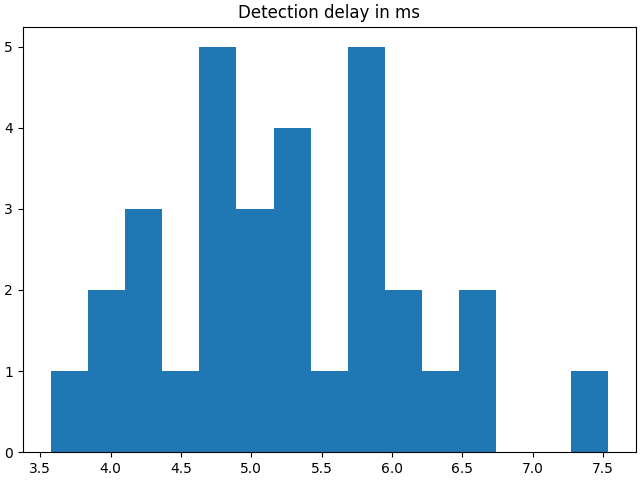
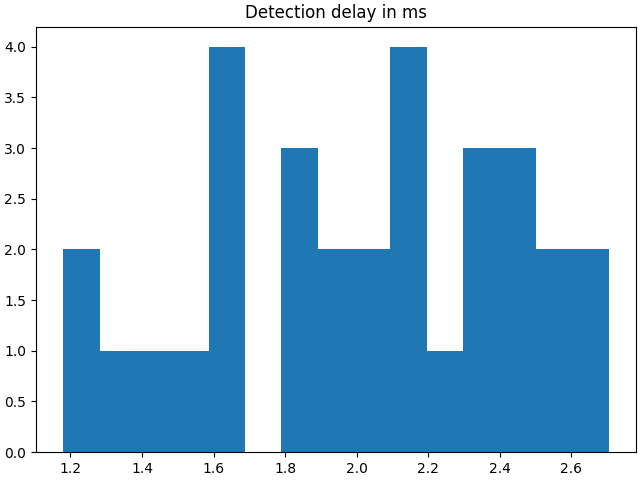
update performance figure

diff --git a/examples/00_peak_detection.py b/examples/00_peak_detection.py
@@ -396,9 +396,9 @@ plt.show()
 # This is obviously not compatible with a real-time detection scenario, but ensures that
 # the test and documentation builds successfully on github runners.
 #
-# In a real application, this detector detects R-peaks within 10 ms of their emission.
-# To approximate this result, you can add the argument ``chunk_size=1`` to the
-# ``Player`` object, which yields the following figure locally:
+# In a real application, this detector detects R-peaks within a couple of ms of their
+# emission. To approximate this result, you can run the ``Player`` object in a separate
+# process with the argument ``chunk_size=1``, which yields the following figure locally:
 #
 # .. image:: ../../_static/tutorials/qrs-detector-performance.png
 #     :align: center

diff --git a/examples/10_player_separate_process.py b/examples/10_player_separate_process.py
@@ -135,7 +135,7 @@ def player_process(raw, status):
     player.start()
     status.value = 1
     while status.value:
-        time.sleep(0.1)
+        pass
     player.stop()
 
 
